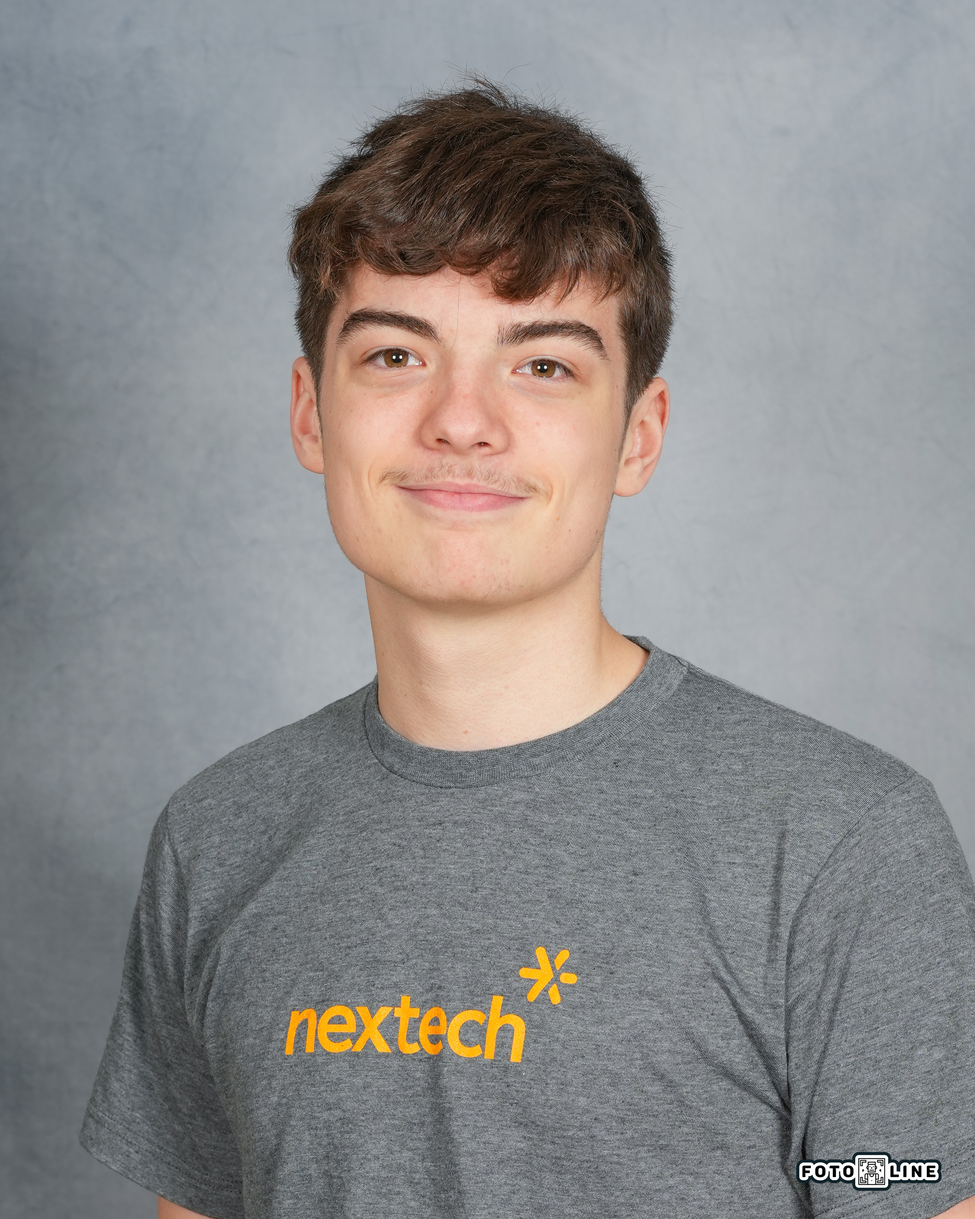
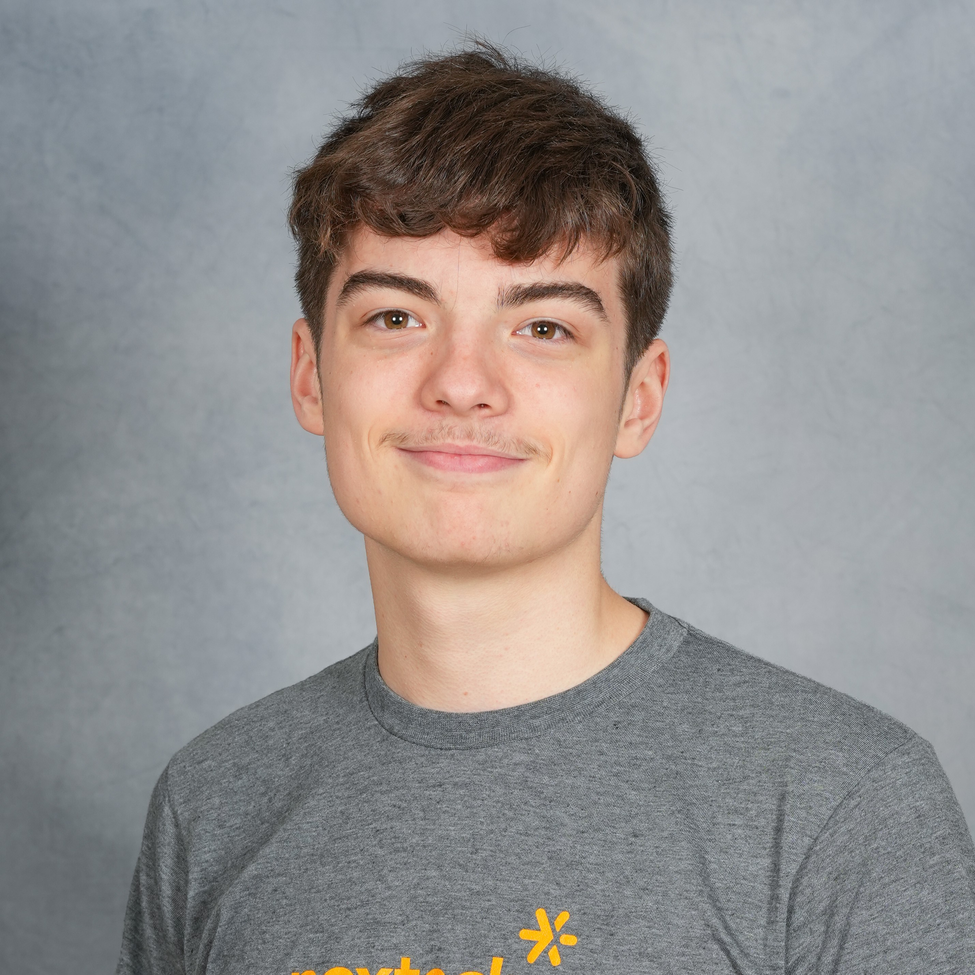
I'm committed

diff --git a/Style.css b/Style.css
@@ -9,33 +9,36 @@ body{
 }
 
 .foreground{
-    background-color: rgb(51, 41, 117);
+    background-color: rgb(29, 23, 68);
     padding-top: 20px;
     
     height: 100%;
 }
 
-.Hello {font-size: large;
+.Hello {font-size: 1vw;
     display: flex;
-    justify-content: center;
+    justify-content: space-evenly;color:white;
+
 }
-.Hellotxt{
+.Hellotxt{ color:white;
     margin:auto;
-    text-align: center; font-size: 2vh; font-weight: 430;}
+    text-align: center; font-size: 1.6vw; font-weight: 430;}
 .Helloimg {
     width: 50%;padding:5%; padding-left:0;
     
 }
 .hellope{
-    margin: auto;padding:5%; width: 50%; text-align: center;
+    margin: auto;padding:5%; width: 50%; text-align: center; font-weight: 300;
 }
 img {
     width: 100%;
     border-radius: 10000px;
+    object-fit: cover;
+    border: 6px white solid;
 }
 .big{font-weight: 900;font-size: 400%;}
 .buttons{
     display: flex;
-    justify-content: center;
+    justify-content:space-evenly;
 }
-.button
+.button{border-radius: 10px; background-color: black; color: white; border: 4px white solid; width: 30%; font-size: 2vw;}

diff --git a/index.html b/index.html
@@ -1,5 +1,6 @@
 <!DOCTYPE html>
 <html lang="en">
+    <script src="particles.min.js"></script>
 <head>
     <meta charset="UTF-8">
     <meta http-equiv="X-UA-Compatible" content="IE=edge">
@@ -12,7 +13,7 @@
     <div class="foreground">
         <div class = "Hello">
             <div class="hellope">
-                <a class="big">Hello!</a><br><a class="Hellotxt">I'm David Kent.I'm saying hallo and stuff
+                <a class="big">Hello!</a><br><a class="Hellotxt">My name is David Kent. <br>I am an aspiring Software Engineer <br> and senior at BHSN.
             </a></div>
             <div class = "Helloimg">
                 <img id="helloimg" src="images\FLPS-036.jpg" alt="Picture of me.">
